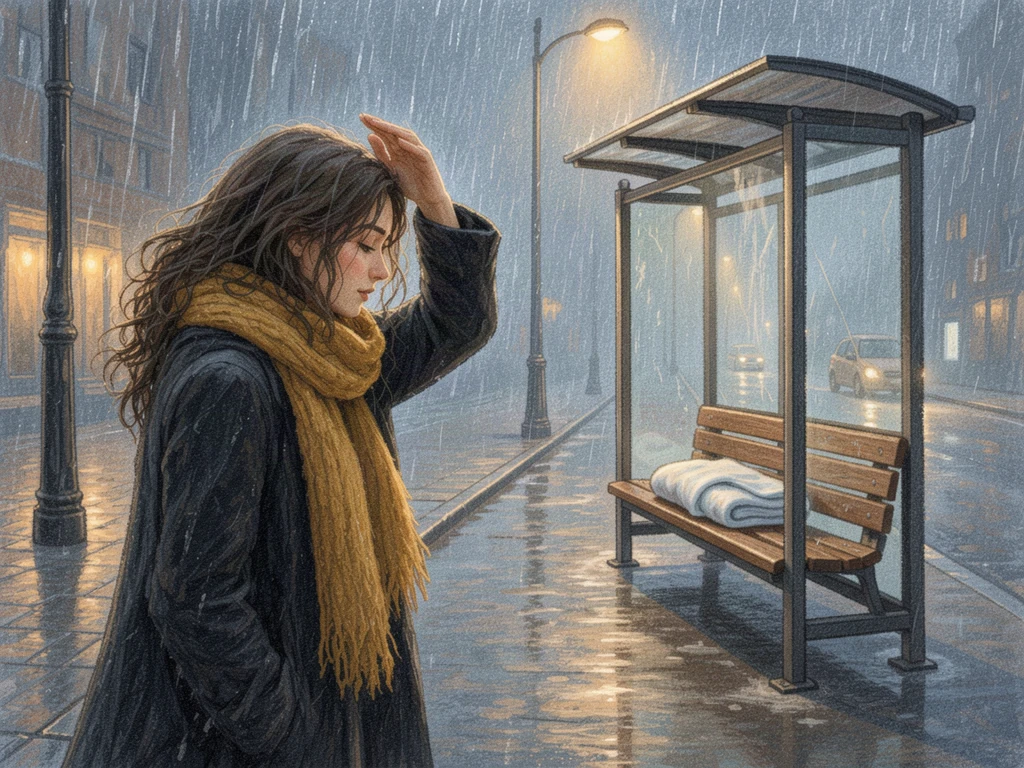
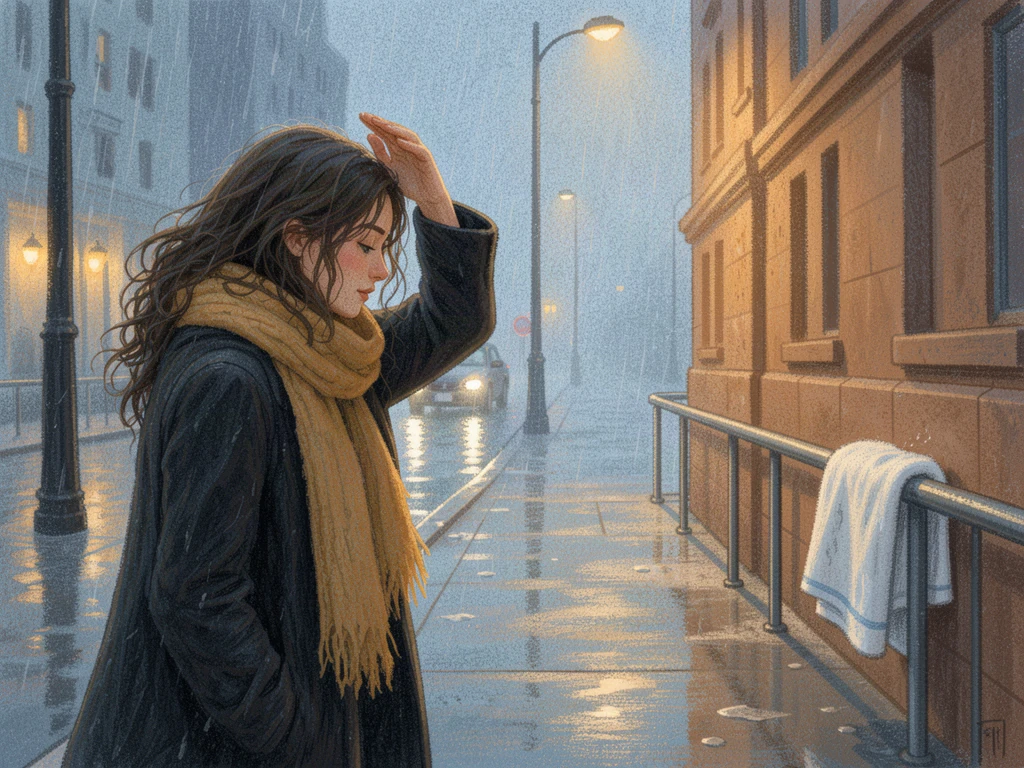
beta3: stage10 no bench, hospital blanket on the railing

diff --git a/beta/index.html b/beta/index.html
@@ -150,7 +150,7 @@ const D={stages:[
   o:{sk:'„…Mami? Prosím, zobuď sa.“',en:'“…Mom? Please wake up.”'},
   in:{sk:'Len trochu dažďa. Skoro doma.',en:'Only a little rain. Almost home.'},
   out:{sk:'Svetlá. Zvuk, akoby sa trhalo celé nebo. A potom—',en:'Lights. A sound like the sky tearing. And then—'},
-  h:{x:69,y:64.5,r:7.5,n:{sk:'Nemocničná deka',en:'A hospital blanket'},w:{sk:'Na zastávke v daždi je zložená deka z izby 214.',en:'A blanket from room 214 is folded on the bus stop bench in the rain.'}}},
+  h:{x:84.5,y:70.5,r:7,n:{sk:'Nemocničná deka',en:'A hospital blanket'},w:{sk:'Cez zábradlie pri ceste je prehodená deka z izby 214.',en:'A blanket from room 214 hangs over the railing by the road.'}}},
 ]};
 
 const T={
